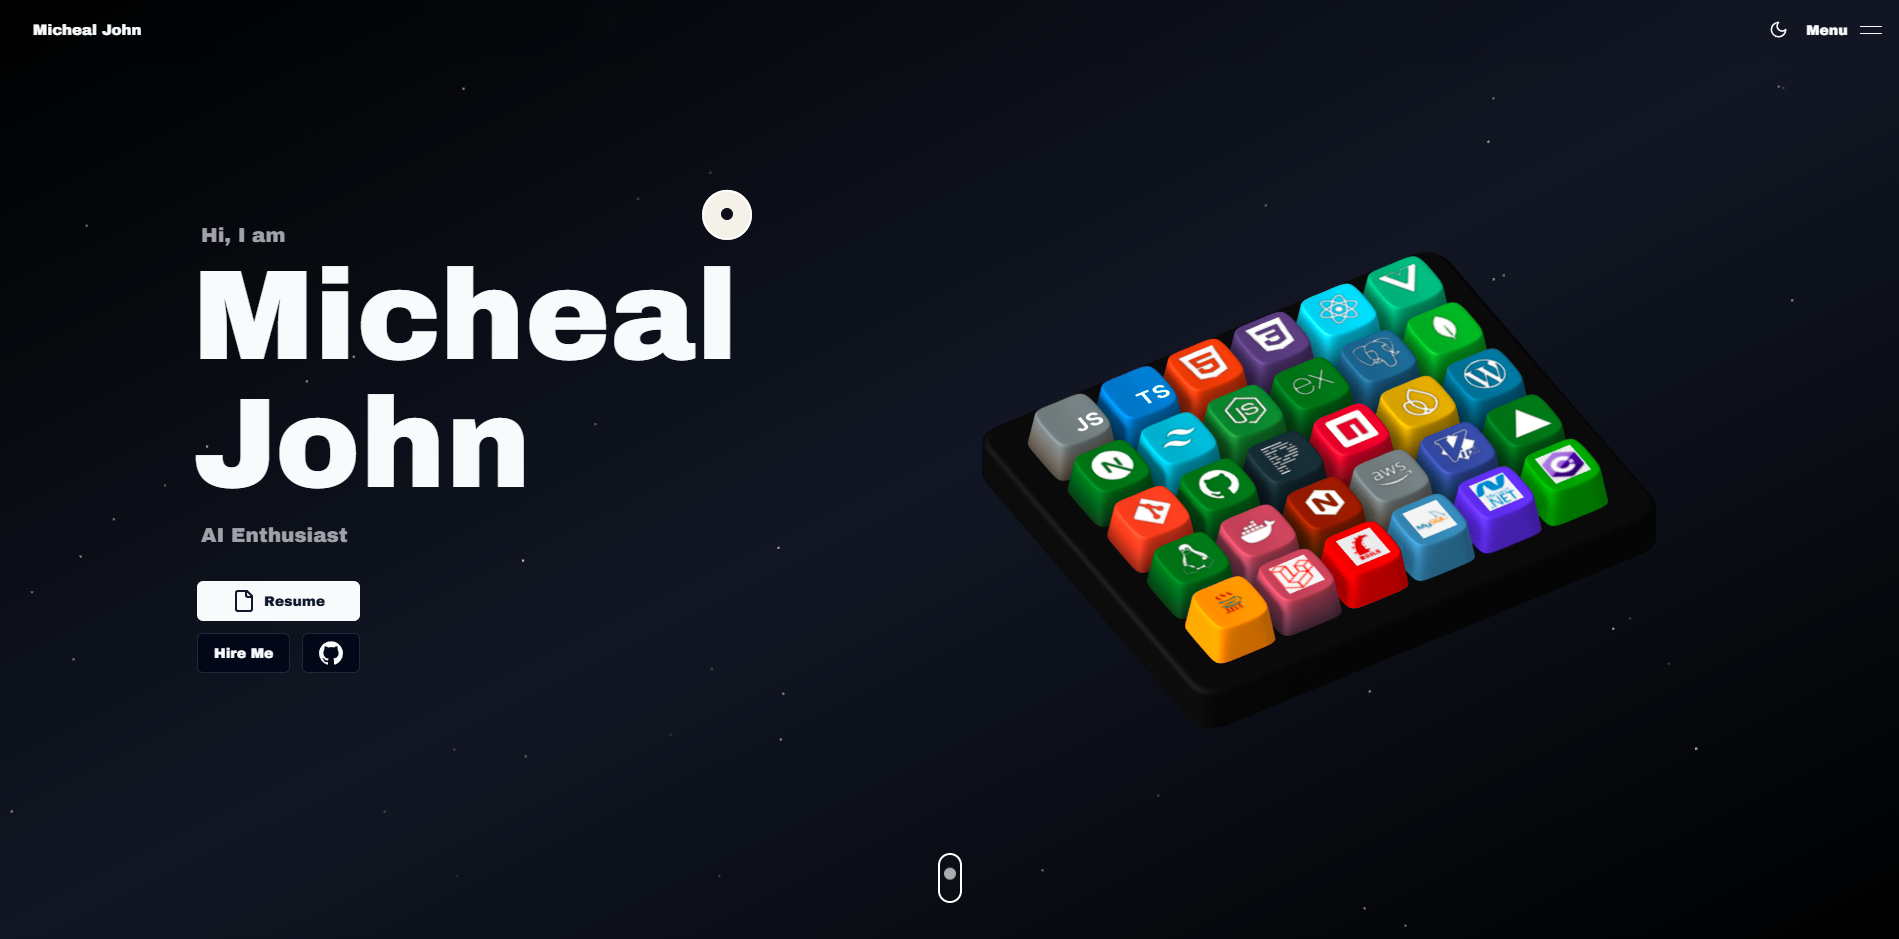
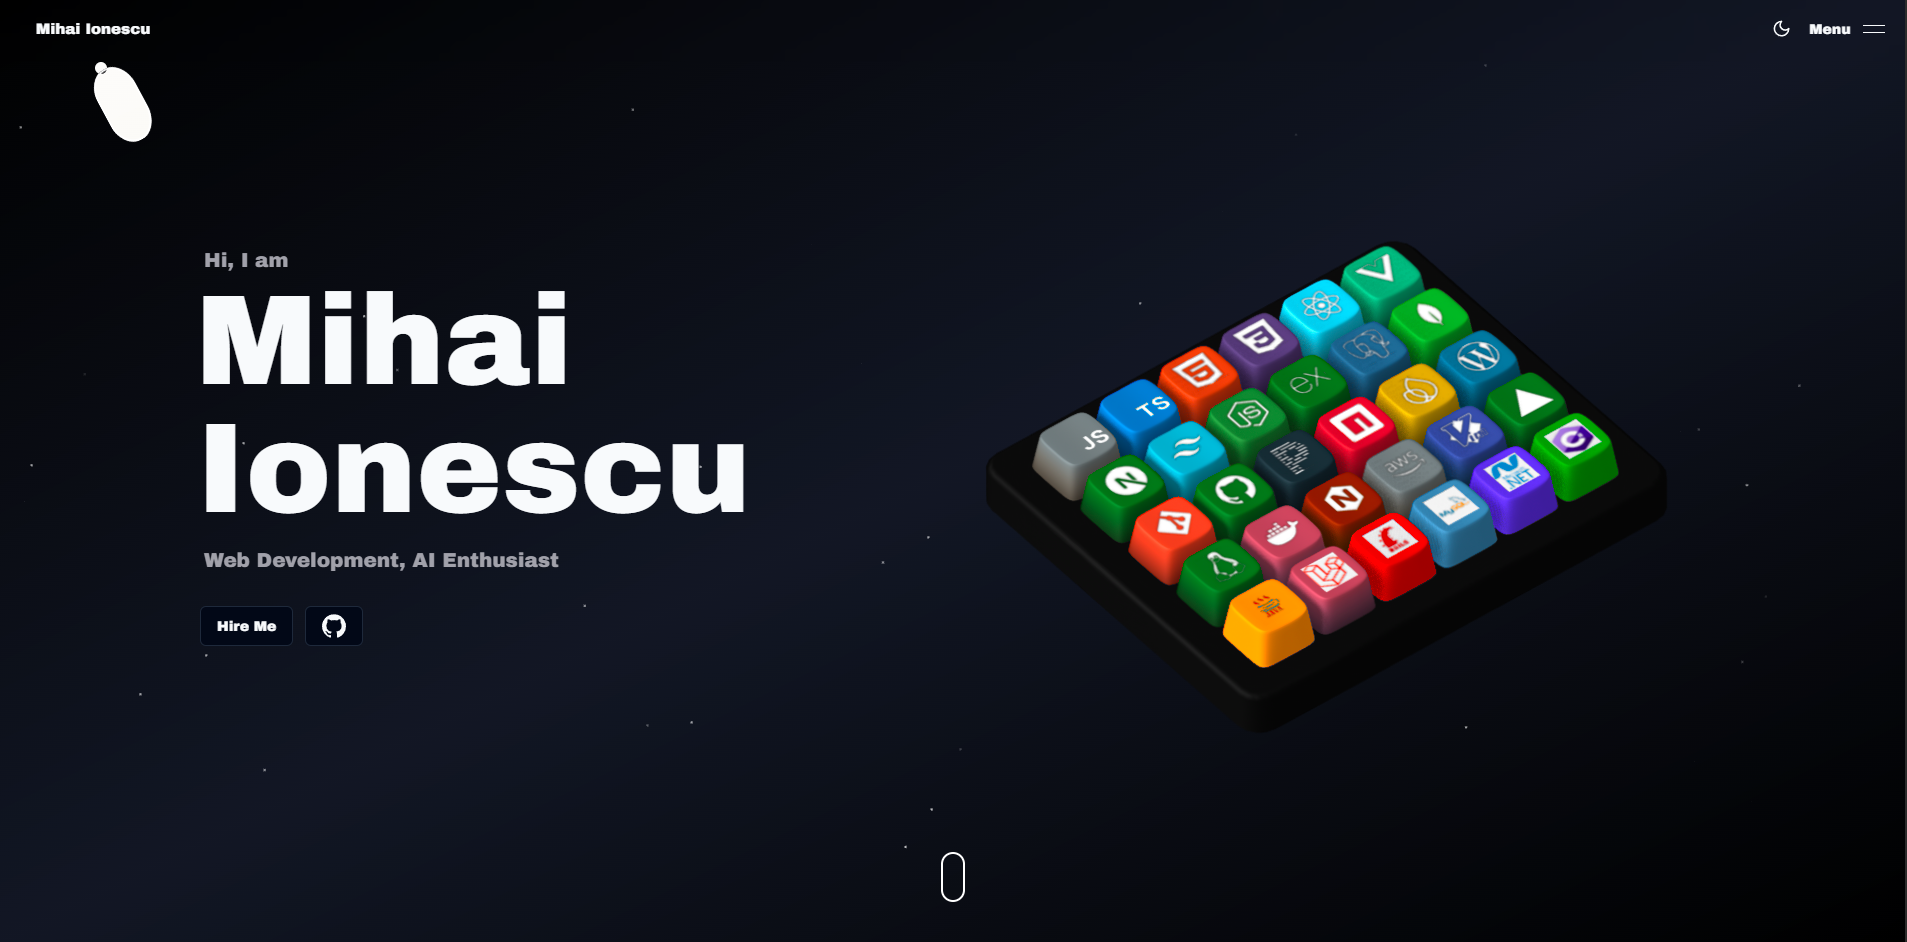
update config

diff --git a/src/data/config.ts b/src/data/config.ts
@@ -1,16 +1,16 @@
 const config = {
-  title: "Micheal John | Web Developer, Full Stack Engineer, AI Enthusiast",
+  title: "Mihai Ionescu | Web Developer, Full Stack Engineer, AI Enthusiast",
   description: {
-    long: "Explore the portfolio of Micheal, a Computer Science Engineer with 1.5 year experience in Devlopment, DevOps & Database management with hands-on experience in deploying & automating workflows, & collaborating with foreign clients. Strong analytical skills, effective communication, and a team-oriented approach to driving process improvements and delivering results.",
+    long: "Explore the portfolio of Mihai, a Computer Science Engineer with 1.5 year experience in Devlopment, DevOps & Database management with hands-on experience in deploying & automating workflows, & collaborating with foreign clients. Strong analytical skills, effective communication, and a team-oriented approach to driving process improvements and delivering results.",
     short:
-      "Discover the portfolio of Micheal, a AI enthusiast solving real life problems in DevOps and Development.",
+      "Discover the portfolio of Mihai, a AI enthusiast solving real life problems in DevOps and Development.",
   },
   keywords: [
-    "Micheal",
-    "Micheal John",
-    "michealjohn",
-    "michealjohn.com",
-    "Micheal John portfolio",
+    "Mihai",
+    "Mihai Ionescu",
+    "mihaiionescu",
+    "mihaiionescu.com",
+    "Mihai Ionescu portfolio",
     "portfolio",
     "DevOps",
     "Devlopment",
@@ -30,16 +30,16 @@ const config = {
     "AIOps",
     "Azure",
   ],
-  author: "Micheal John",
-  email: "kingtiger0228@outlook.com",
-  site: "https://michealjohn.com",
+  author: "Mihai Ionescu",
+  email: "mihai.ionescu0907@outlook.com",
+  site: "https://mihaiionescu.com",
 
   get ogImg() {
     return this.site + "/assets/seo/og-image.png";
   },
   social: {
     // twitter: "https://x.com/_Abhi_Speaks/",
-    // linkedin: "https://www.linkedin.com/in/John-Micheal/",
+    // linkedin: "https://www.linkedin.com/in/Ionescu-Mihai/",
     // instagram: "https://www.instagram.com/_.celestial_abhi._/",
     // facebook: "https://www.facebook.com/profile.php?id=100010029821759",
     github: "https://github.com/Vincenzo0228-bong",
